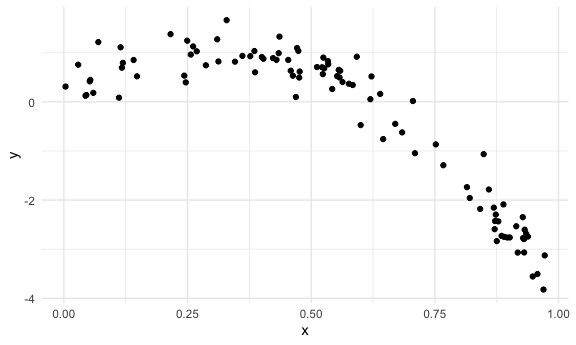
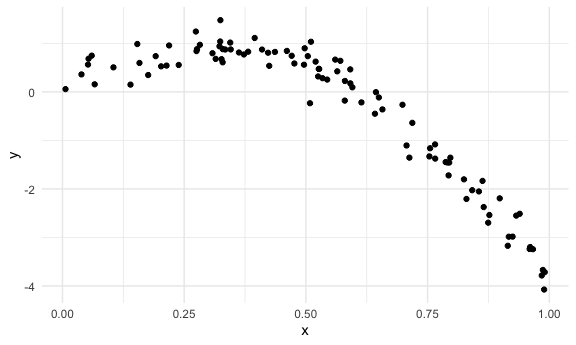
cv with modelr

diff --git a/cross_validation.md b/cross_validation.md
@@ -90,16 +90,126 @@ Look at prediction accuracy.
 rmse(linear_mod, test_df)
 ```
 
-    ## [1] 0.7826454
+    ## [1] 0.8831342
 
 ``` r
 rmse(smooth_mod, test_df)
 ```
 
-    ## [1] 0.2922005
+    ## [1] 0.2503548
 
 ``` r
 rmse(wiggly_mod, test_df)
 ```
 
-    ## [1] 0.3877867
+    ## [1] 0.294147
+
+## Cross Validation – `modelr`
+
+``` r
+cv_df <- 
+  crossv_mc(nonlin_df, 100)
+```
+
+``` r
+cv_df %>% pull(train) %>% .[[1]] %>% as_tibble()
+```
+
+    ## # A tibble: 79 × 3
+    ##       id     x      y
+    ##    <int> <dbl>  <dbl>
+    ##  1     2 0.425  0.538
+    ##  2     3 0.496  0.560
+    ##  3     4 0.239  0.556
+    ##  4     5 0.373  0.771
+    ##  5     6 0.939 -2.51 
+    ##  6     7 0.766 -1.37 
+    ##  7     8 0.591  0.177
+    ##  8    10 0.560  0.666
+    ##  9    11 0.526  0.475
+    ## 10    13 0.471  0.745
+    ## # … with 69 more rows
+
+``` r
+cv_df %>% pull(test) %>% .[[1]] %>% as_tibble()
+```
+
+    ## # A tibble: 21 × 3
+    ##       id     x      y
+    ##    <int> <dbl>  <dbl>
+    ##  1     1 0.642 -0.450
+    ##  2     9 0.657 -0.361
+    ##  3    12 0.315  0.681
+    ##  4    20 0.191  0.737
+    ##  5    31 0.794 -1.46 
+    ##  6    32 0.327  0.675
+    ##  7    36 0.898 -2.19 
+    ##  8    40 0.362  0.813
+    ##  9    42 0.504  0.737
+    ## 10    43 0.510  1.03 
+    ## # … with 11 more rows
+
+``` r
+cv_df <- 
+  cv_df %>% 
+  mutate(
+    train = map(train, as_tibble),
+    test = map(test, as_tibble)
+  )
+```
+
+Fit models and get RMSEs for them.
+
+``` r
+cv_df <- 
+  cv_df %>% 
+  mutate(
+    linear_mod = map(train, ~lm(y ~ x, data = .x)),
+    smooth_mod = map(train, ~gam(y ~ s(x), data = .x)),
+    wiggly_mod = map(train, ~gam(y ~ s(x, k = 30), sp = 10e-6, data = .x))
+  ) %>% 
+  mutate(
+    rmse_linear = map2_dbl(linear_mod, test, ~rmse(model = .x, data = .y)),
+    rmse_smooth = map2_dbl(smooth_mod, test, ~rmse(model = .x, data = .y)),
+    rmse_wiggly = map2_dbl(wiggly_mod, test, ~rmse(model = .x, data = .y))
+  )
+```
+
+What do these results say about the model choice?
+
+``` r
+cv_df %>% 
+  select(starts_with("rmse")) %>% 
+  pivot_longer(
+    everything(),
+    names_to = "model",
+    values_to = "rmse",
+    names_prefix = "rmse_"
+  ) %>% 
+  ggplot(aes(x = model, y = rmse)) +
+  geom_violin()
+```
+
+<img src="cross_validation_files/figure-gfm/unnamed-chunk-14-1.png" width="90%" />
+
+Compute averages.
+
+``` r
+cv_df %>% 
+  select(starts_with("rmse")) %>% 
+  pivot_longer(
+    everything(),
+    names_to = "model",
+    values_to = "rmse",
+    names_prefix = "rmse_"
+  ) %>% 
+  group_by(model) %>% 
+  summarize(avg_rmse = mean(rmse))
+```
+
+    ## # A tibble: 3 × 2
+    ##   model  avg_rmse
+    ##   <chr>     <dbl>
+    ## 1 linear    0.781
+    ## 2 smooth    0.257
+    ## 3 wiggly    0.338
